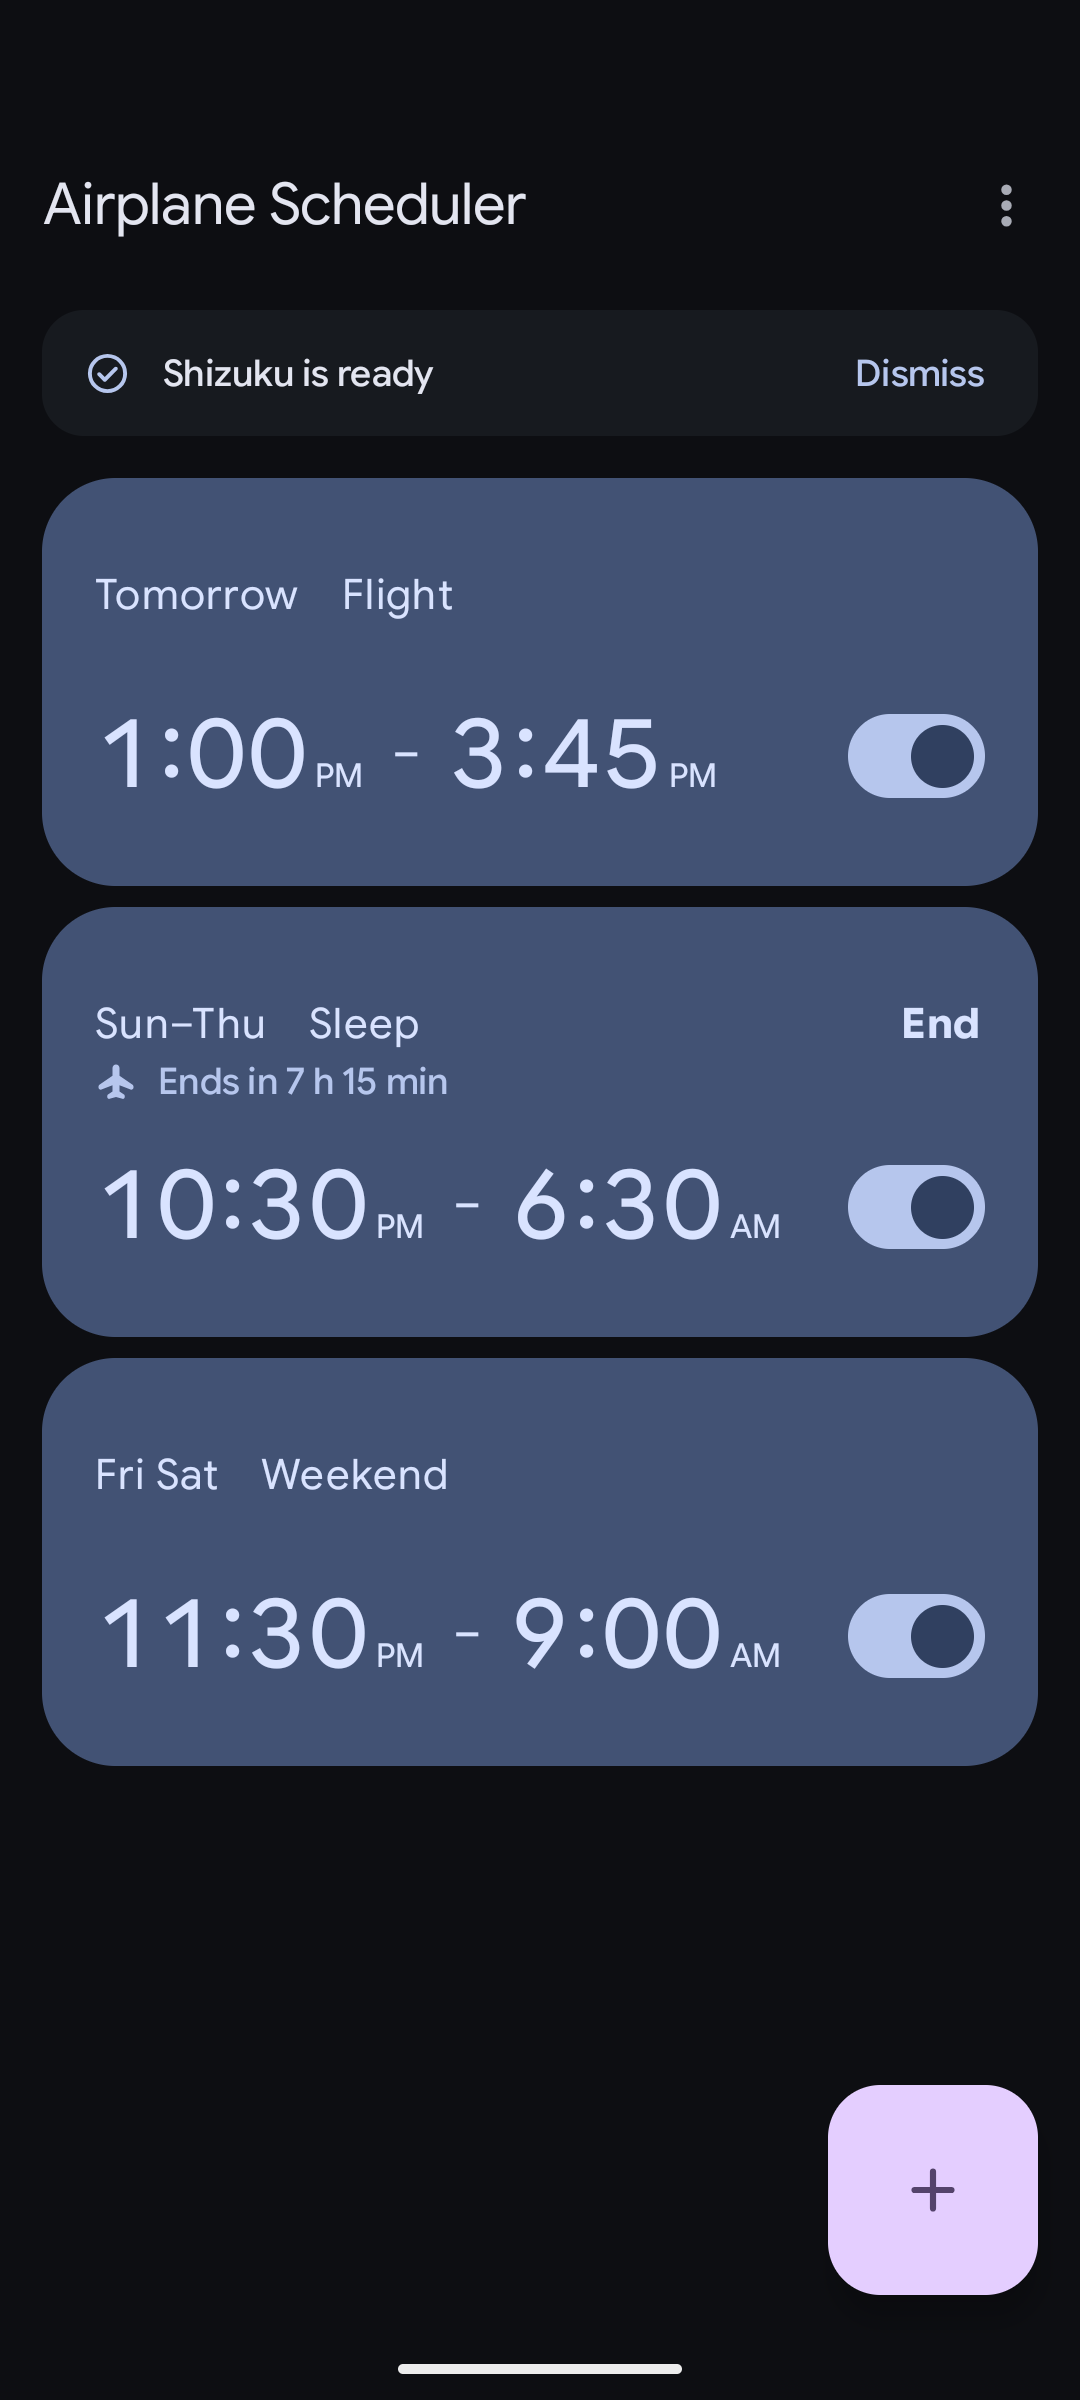
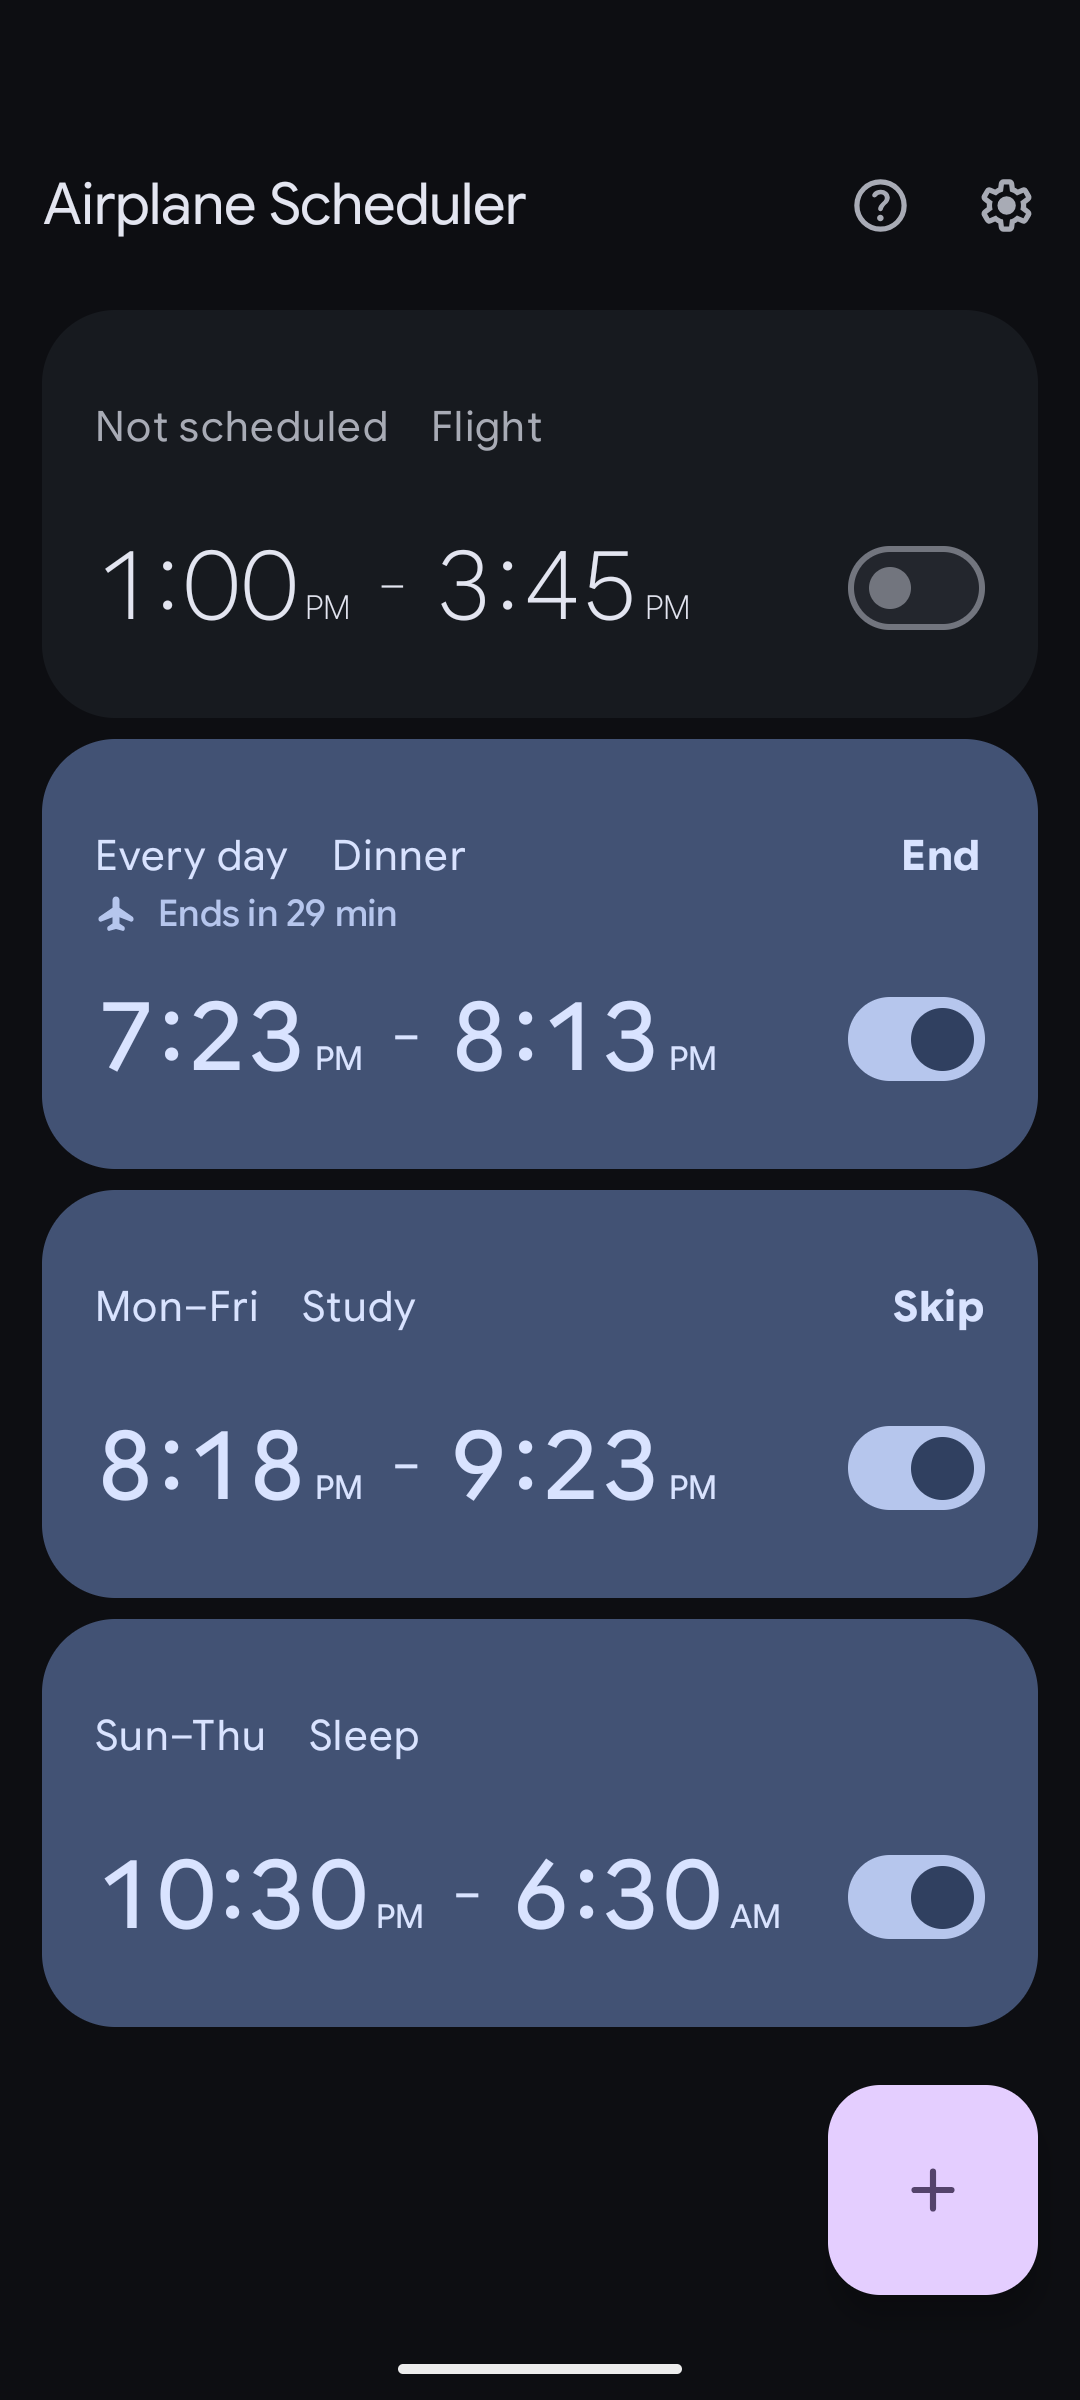
Release v3.0 (#20)

diff --git a/README.md b/README.md
@@ -16,24 +16,25 @@ F-Droid may lag behind new releases. See [Releases][release-url] for the latest 
 
 <div align="center">
 
-<img src="fastlane/metadata/android/en-US/images/phoneScreenshots/1.png" alt="Schedules" width="30%">&nbsp;<img src="fastlane/metadata/android/en-US/images/phoneScreenshots/2.png" alt="Editing a schedule" width="30%">&nbsp;<img src="fastlane/metadata/android/en-US/images/phoneScreenshots/3.png" alt="Schedules in light theme" width="30%">
+<img src="fastlane/metadata/android/en-US/images/phoneScreenshots/1.png" alt="Schedules" width="30%">&nbsp;<img src="fastlane/metadata/android/en-US/images/phoneScreenshots/2.png" alt="Editing a schedule" width="30%">&nbsp;<img src="fastlane/metadata/android/en-US/images/phoneScreenshots/3.png" alt="Choosing Shizuku or root permission mode" width="30%">
 
 </div>
 
 ## Features
 
-- **Flexible schedules.** One-off or repeating on the days you choose.
-- **Overnight schedules.** Schedules can carry over to the next day.
-- **Full control.** Skip, postpone, pause or end your schedules.
-- **Wi-Fi control.** Off when a schedule starts, back on when it ends.
-- **Safe by default.** Ending a schedule undoes only what it changed, never what you toggled yourself.
+- **Flexible schedules.** Run once or repeat on the days you choose.
+- **Overnight schedules.** A schedule can continue into the next day.
+- **Full control.** Skip, postpone, pause or end a schedule at any time.
+- **Wi-Fi control.** Turn off Wi-Fi when a schedule starts, and turn it back on when it ends.
+- **Safe by default.** Ending a schedule only reverts changes the app made.
 - **Notifications.** Quiet notifications before, during and after a schedule.
-- **No internet access, ads or tracking.**
+- **No internet access, ads or tracking ever.**
 
 ## Requirements
 
 - Android 9 or later.
-- [Shizuku](https://github.com/RikkaApps/Shizuku), or [Sui](https://github.com/RikkaApps/Sui) on a rooted phone.
+- **Non-root:** [Shizuku-Next](https://github.com/rushiranpise/Shizuku-Next) (recommended) or [Shizuku](https://github.com/RikkaApps/Shizuku).
+- **Root:** [Sui](https://github.com/RikkaApps/Sui), or root access through [Magisk](https://github.com/topjohnwu/Magisk) or similar.
 
 ## Building
 
